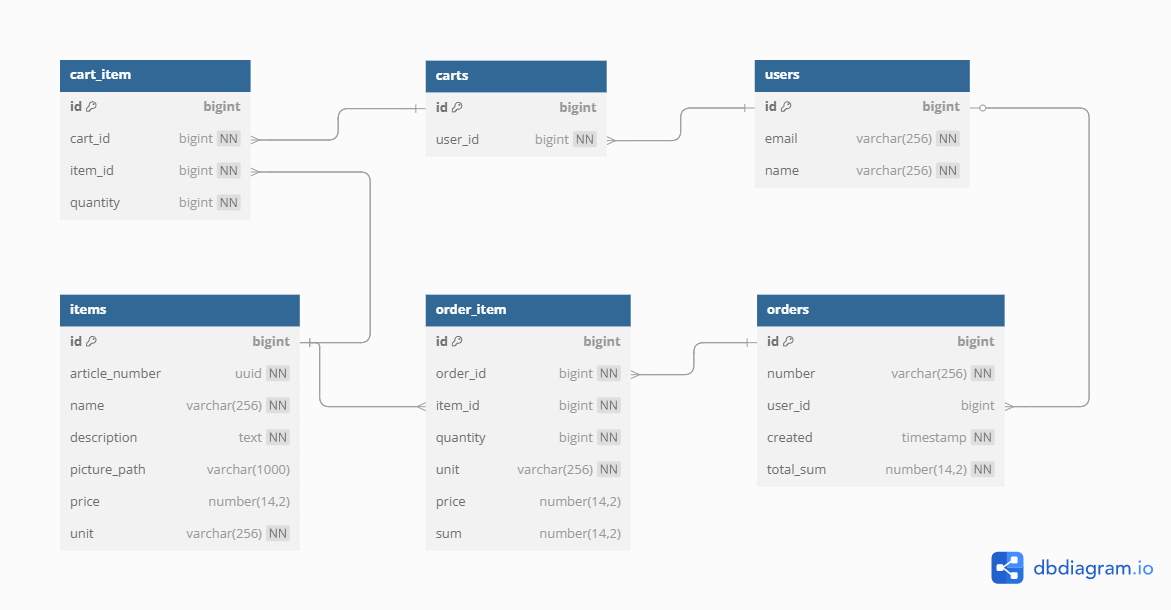
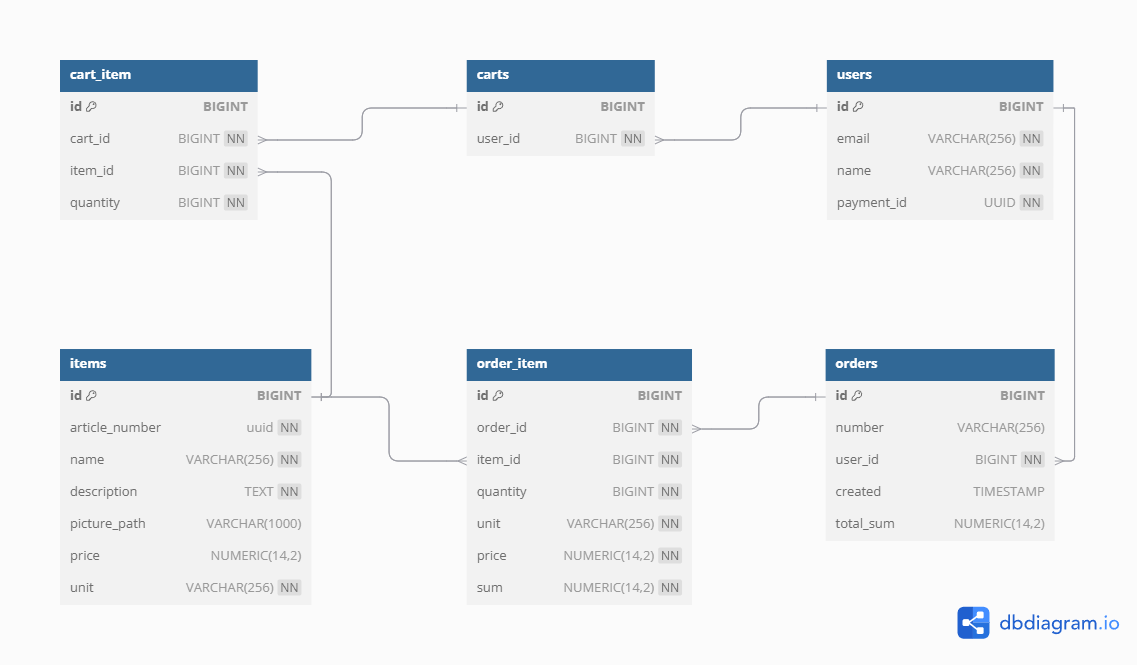
feat: integrate payservice to shop

diff --git a/shop/src/main/resources/templates/cart.html b/shop/src/main/resources/templates/cart.html
@@ -30,7 +30,9 @@
                         <b th:text="${item.getPrice()}+' руб.'"></b>
                     </td>
                 </tr>
-                <tr><td th:text="${item.getDescription()}"></td></tr>
+                <tr>
+                    <td th:text="${item.getDescription()}"></td>
+                </tr>
                 <tr>
                     <td>
                         <form th:action="${'/cart/items/'+item.getId()}" method="post">
@@ -51,11 +53,16 @@
     </tr>
     <tr>
         <td style="text-align:right">
-            <form action="/buy" method="post" th:if="${!empty}">
+            <form action="/buy" method="post" th:if="${enablePayment}">
                 <button>Купить</button>
             </form>
         </td>
     </tr>
+    <td>
+        <div style="text-align: right;">
+            <span th:if="${!enablePayment}" th:text=${payServiceError.getMessage()} style="color:red"></span>
+        </div>
+    </td>
 </table>
 </body>
 

diff --git a/shop/src/main/java/com/github/mrchcat/intershop/cart/service/CartServiceImpl.java b/shop/src/main/java/com/github/mrchcat/intershop/cart/service/CartServiceImpl.java
@@ -1,5 +1,6 @@
 package com.github.mrchcat.intershop.cart.service;
 
+import client.PaymentClient;
 import com.github.mrchcat.intershop.cart.domain.Cart;
 import com.github.mrchcat.intershop.cart.domain.CartItem;
 import com.github.mrchcat.intershop.cart.domain.CartItemPrice;
@@ -9,9 +10,13 @@ import com.github.mrchcat.intershop.cart.repository.CartItemPriceRepository;
 import com.github.mrchcat.intershop.cart.repository.CartItemRepository;
 import com.github.mrchcat.intershop.cart.repository.CartRepository;
 import com.github.mrchcat.intershop.enums.CartAction;
+import com.github.mrchcat.intershop.enums.PayServiceError;
 import com.github.mrchcat.intershop.item.domain.Item;
 import com.github.mrchcat.intershop.order.domain.OrderItem;
+import com.github.mrchcat.intershop.user.service.UserService;
+import dto.Balance;
 import lombok.RequiredArgsConstructor;
+import org.springframework.beans.factory.annotation.Value;
 import org.springframework.stereotype.Service;
 import org.springframework.transaction.annotation.Transactional;
 import reactor.core.publisher.Flux;
@@ -19,6 +24,7 @@ import reactor.core.publisher.Mono;
 
 import java.math.BigDecimal;
 import java.util.Collections;
+import java.util.List;
 import java.util.Map;
 import java.util.NoSuchElementException;
 
@@ -28,6 +34,8 @@ public class CartServiceImpl implements CartService {
     private final CartRepository cartRepository;
     private final CartItemRepository cartItemRepository;
     private final CartItemPriceRepository cartItemPriceRepository;
+    private final UserService userService;
+    private final PaymentClient paymentClient;
 
     @Override
     public Mono<Cart> getCartForUser(long userId) {
@@ -89,25 +97,44 @@ public class CartServiceImpl implements CartService {
                 .switchIfEmpty(Mono.error(new NoSuchElementException(
                         String.format("корзина для пользователя id=%s не найден", userId))));
         Flux<CartItemPrice> cartItemPrices = cartItemPriceRepository.findByCart(cart.map(Cart::getId));
+        Mono<Balance> balance = userService.getUser(userId)
+                .flatMap(user -> paymentClient.getBalance(user.getPaymentId()))
+                .onErrorReturn(new Balance(null,null,BigDecimal.ZERO,""));
 
         return cartItemPrices
                 .collectList()
-                .map(list -> {
+                .zipWith(balance)
+                .map(tuple -> {
+                    List<CartItemPrice> list = tuple.getT1();
                     if (list.isEmpty()) {
                         return CartItemsDto.builder()
                                 .itemDtoList(Collections.emptyList())
                                 .isCartEmpty(true)
                                 .total(BigDecimal.ZERO)
+                                .enablePayment(false)
+                                .payError(PayServiceError.NO)
                                 .build();
                     }
-                    BigDecimal total = list.stream()
+                    BigDecimal totalAmount = list.stream()
                             .map(cip -> cip.getPrice().multiply(BigDecimal.valueOf(cip.getQuantity())))
                             .reduce(BigDecimal.ZERO, BigDecimal::add);
-
+                    if(tuple.getT2().getClient()==null&&tuple.getT2().getAccount()==null){
+                        return CartItemsDto.builder()
+                                .itemDtoList(CartItemPriceMatcher.toDto(list))
+                                .isCartEmpty(false)
+                                .total(totalAmount)
+                                .enablePayment(false)
+                                .payError(PayServiceError.OUT_OF_ORDER)
+                                .build();
+                    }
+                    BigDecimal userBalance = tuple.getT2().getAmount();
+                    boolean isEnoughMoney = userBalance.compareTo(totalAmount) >= 0;
                     return CartItemsDto.builder()
                             .itemDtoList(CartItemPriceMatcher.toDto(list))
                             .isCartEmpty(false)
-                            .total(total)
+                            .total(totalAmount)
+                            .enablePayment(isEnoughMoney)
+                            .payError(isEnoughMoney?PayServiceError.NO:PayServiceError.NOT_ENOUGH_MONEY)
                             .build();
                 });
     }

diff --git a/shop/src/main/java/com/github/mrchcat/intershop/order/service/OrderServiceImpl.java b/shop/src/main/java/com/github/mrchcat/intershop/order/service/OrderServiceImpl.java
@@ -1,5 +1,6 @@
 package com.github.mrchcat.intershop.order.service;
 
+import client.PaymentClient;
 import com.github.mrchcat.intershop.cart.domain.Cart;
 import com.github.mrchcat.intershop.cart.service.CartService;
 import com.github.mrchcat.intershop.item.domain.Item;
@@ -10,6 +11,9 @@ import com.github.mrchcat.intershop.order.dto.OrderDto;
 import com.github.mrchcat.intershop.order.matcher.OrderMatcher;
 import com.github.mrchcat.intershop.order.repository.OrderItemRepository;
 import com.github.mrchcat.intershop.order.repository.OrderRepository;
+import com.github.mrchcat.intershop.user.domain.User;
+import com.github.mrchcat.intershop.user.service.UserService;
+import dto.Payment;
 import lombok.RequiredArgsConstructor;
 import org.springframework.stereotype.Service;
 import org.springframework.transaction.annotation.Transactional;
@@ -21,6 +25,7 @@ import java.time.LocalDate;
 import java.time.LocalDateTime;
 import java.time.format.DateTimeFormatter;
 import java.util.List;
+import java.util.UUID;
 
 @RequiredArgsConstructor
 @Service
@@ -29,6 +34,9 @@ public class OrderServiceImpl implements OrderService {
     private final OrderItemRepository orderItemRepository;
     private final ItemService itemService;
     private final CartService cartService;
+    private final UserService userService;
+    private final PaymentClient paymentClient;
+    private final UUID shopPaymentId = UUID.fromString("623ff0e5-2069-4051-88dc-fea52a85ffab");
 
     @Override
     @Transactional
@@ -88,6 +96,8 @@ public class OrderServiceImpl implements OrderService {
     public Mono<Order> buyCart(long userId) {
         Mono<Cart> cart = cartService.getCartForUser(userId).cache();
         Mono<Order> order = makeNewOrder(userId);
+        Mono<UUID> userPaymentId = userService.getUser(userId).map(User::getPaymentId);
+
         return cartService.getOrderItemsForCart(cart)
                 .collectList()
                 .zipWith(order)
@@ -102,9 +112,20 @@ public class OrderServiceImpl implements OrderService {
                                     .reduce(BigDecimal.ZERO, BigDecimal::add);
                             tuple.getT2().setTotalSum(totalSum);
                         }
-                ).flatMap(tuple -> saveAllOrderItems(tuple.getT1())
-                        .then(cartService.clearCart(cart))
-                        .then(saveOrder(tuple.getT2()))
+                )
+                .flatMap(tuple -> {
+                            Mono<Payment> payment = userPaymentId
+                                    .map(payerId -> Payment.builder()
+                                            .paymentId(UUID.randomUUID())
+                                            .payer(payerId)
+                                            .recipient(shopPaymentId)
+                                            .amount(tuple.getT2().getTotalSum())
+                                            .build())
+                                    .flatMap(paymentClient::createPayment);
+                            return payment.thenMany(saveAllOrderItems(tuple.getT1()))
+                                    .then(cartService.clearCart(cart))
+                                    .then(saveOrder(tuple.getT2()));
+                        }
                 );
     }
 }

diff --git a/shop/src/main/java/com/github/mrchcat/intershop/cart/controller/CartController.java b/shop/src/main/java/com/github/mrchcat/intershop/cart/controller/CartController.java
@@ -33,6 +33,8 @@ public class CartController {
                 .modelAttribute("items", cartItemsDto.map(CartItemsDto::getItemDtoList))
                 .modelAttribute("total", cartItemsDto.map(CartItemsDto::getTotal))
                 .modelAttribute("empty", cartItemsDto.map(CartItemsDto::isCartEmpty))
+                .modelAttribute("enablePayment", cartItemsDto.map(CartItemsDto::isEnablePayment))
+                .modelAttribute("payServiceError",cartItemsDto.map(CartItemsDto::getPayError))
                 .build());
     }
 

diff --git a/shop/src/main/java/com/github/mrchcat/intershop/enums/PayServiceError.java b/shop/src/main/java/com/github/mrchcat/intershop/enums/PayServiceError.java
@@ -1,0 +1,14 @@
+package com.github.mrchcat.intershop.enums;
+
+import lombok.Getter;
+import lombok.RequiredArgsConstructor;
+
+@Getter
+@RequiredArgsConstructor
+public enum PayServiceError {
+    NO(""),
+    NOT_ENOUGH_MONEY("К сожалению, средств не достаточно для оплаты заказа"),
+    OUT_OF_ORDER("К сожалению, средств в настоящее время недоступен. Попробуйте позднее.");
+
+    private final String message;
+}

diff --git a/shop/src/main/java/com/github/mrchcat/intershop/cart/dto/CartItemsDto.java b/shop/src/main/java/com/github/mrchcat/intershop/cart/dto/CartItemsDto.java
@@ -1,5 +1,6 @@
 package com.github.mrchcat.intershop.cart.dto;
 
+import com.github.mrchcat.intershop.enums.PayServiceError;
 import com.github.mrchcat.intershop.item.dto.ItemDto;
 import lombok.Builder;
 import lombok.Getter;
@@ -15,4 +16,6 @@ public class CartItemsDto {
     private List<ItemDto> itemDtoList;
     private BigDecimal total;
     private boolean isCartEmpty;
+    private boolean enablePayment;
+    private PayServiceError payError;
 }

diff --git a/shop/src/main/java/com/github/mrchcat/intershop/user/domain/User.java b/shop/src/main/java/com/github/mrchcat/intershop/user/domain/User.java
@@ -15,6 +15,8 @@ import org.springframework.data.annotation.Id;
 import org.springframework.data.relational.core.mapping.Column;
 import org.springframework.data.relational.core.mapping.Table;
 
+import java.util.UUID;
+
 @Getter
 @Setter
 @ToString
@@ -38,4 +40,8 @@ public class User {
     @NotBlank
     @Length(max = 256)
     private String name;
+
+    @Column("payment_id")
+    @NotNull
+    private UUID paymentId;
 }

diff --git a/payservice/payclient/src/main/java/client/PaymentClientImpl.java b/payservice/payclient/src/main/java/client/PaymentClientImpl.java
@@ -15,6 +15,7 @@ import java.util.UUID;
 @RequiredArgsConstructor
 @Component
 public class PaymentClientImpl implements PaymentClient {
+    //TODO изменить через application.yaml
     private final WebClient webClient = WebClient.create("http://127.0.0.1:8081");
 
     @Override

diff --git a/shop/src/main/java/com/github/mrchcat/intershop/config/ModuleConfig.java b/shop/src/main/java/com/github/mrchcat/intershop/config/ModuleConfig.java
@@ -1,0 +1,10 @@
+package com.github.mrchcat.intershop.config;
+
+import client.PaymentConfig;
+import org.springframework.context.annotation.Configuration;
+import org.springframework.context.annotation.Import;
+
+@Configuration
+@Import(PaymentConfig.class)
+public class ModuleConfig {
+}

diff --git a/shop/src/main/java/com/github/mrchcat/intershop/config/ImageDirectoryConfig.java b/shop/src/main/java/com/github/mrchcat/intershop/config/ImageDirectoryConfig.java
@@ -14,7 +14,6 @@ import java.nio.file.Files;
 import java.nio.file.Path;
 
 @Configuration
-@Import(PaymentConfig.class)
 @ConditionalOnProperty(value = "application.items.load.enabled")
 public class ImageDirectoryConfig implements WebFluxConfigurer {
 

diff --git a/payservice/payclient/src/main/java/client/PaymentConfig.java b/payservice/payclient/src/main/java/client/PaymentConfig.java
@@ -8,6 +8,7 @@ public class PaymentConfig {
 
     @Bean
     PaymentClient getPaymentClient(){
+        System.out.println("getPaymentClient");
         return new PaymentClientImpl();
     }
 }

diff --git a/shop/src/main/java/com/github/mrchcat/intershop/order/controller/OrderController.java b/shop/src/main/java/com/github/mrchcat/intershop/order/controller/OrderController.java
@@ -18,7 +18,6 @@ import java.util.List;
 public class OrderController {
     private final OrderService orderService;
 
-
     @Value("${application.user_id}")
     private long userId;
 
